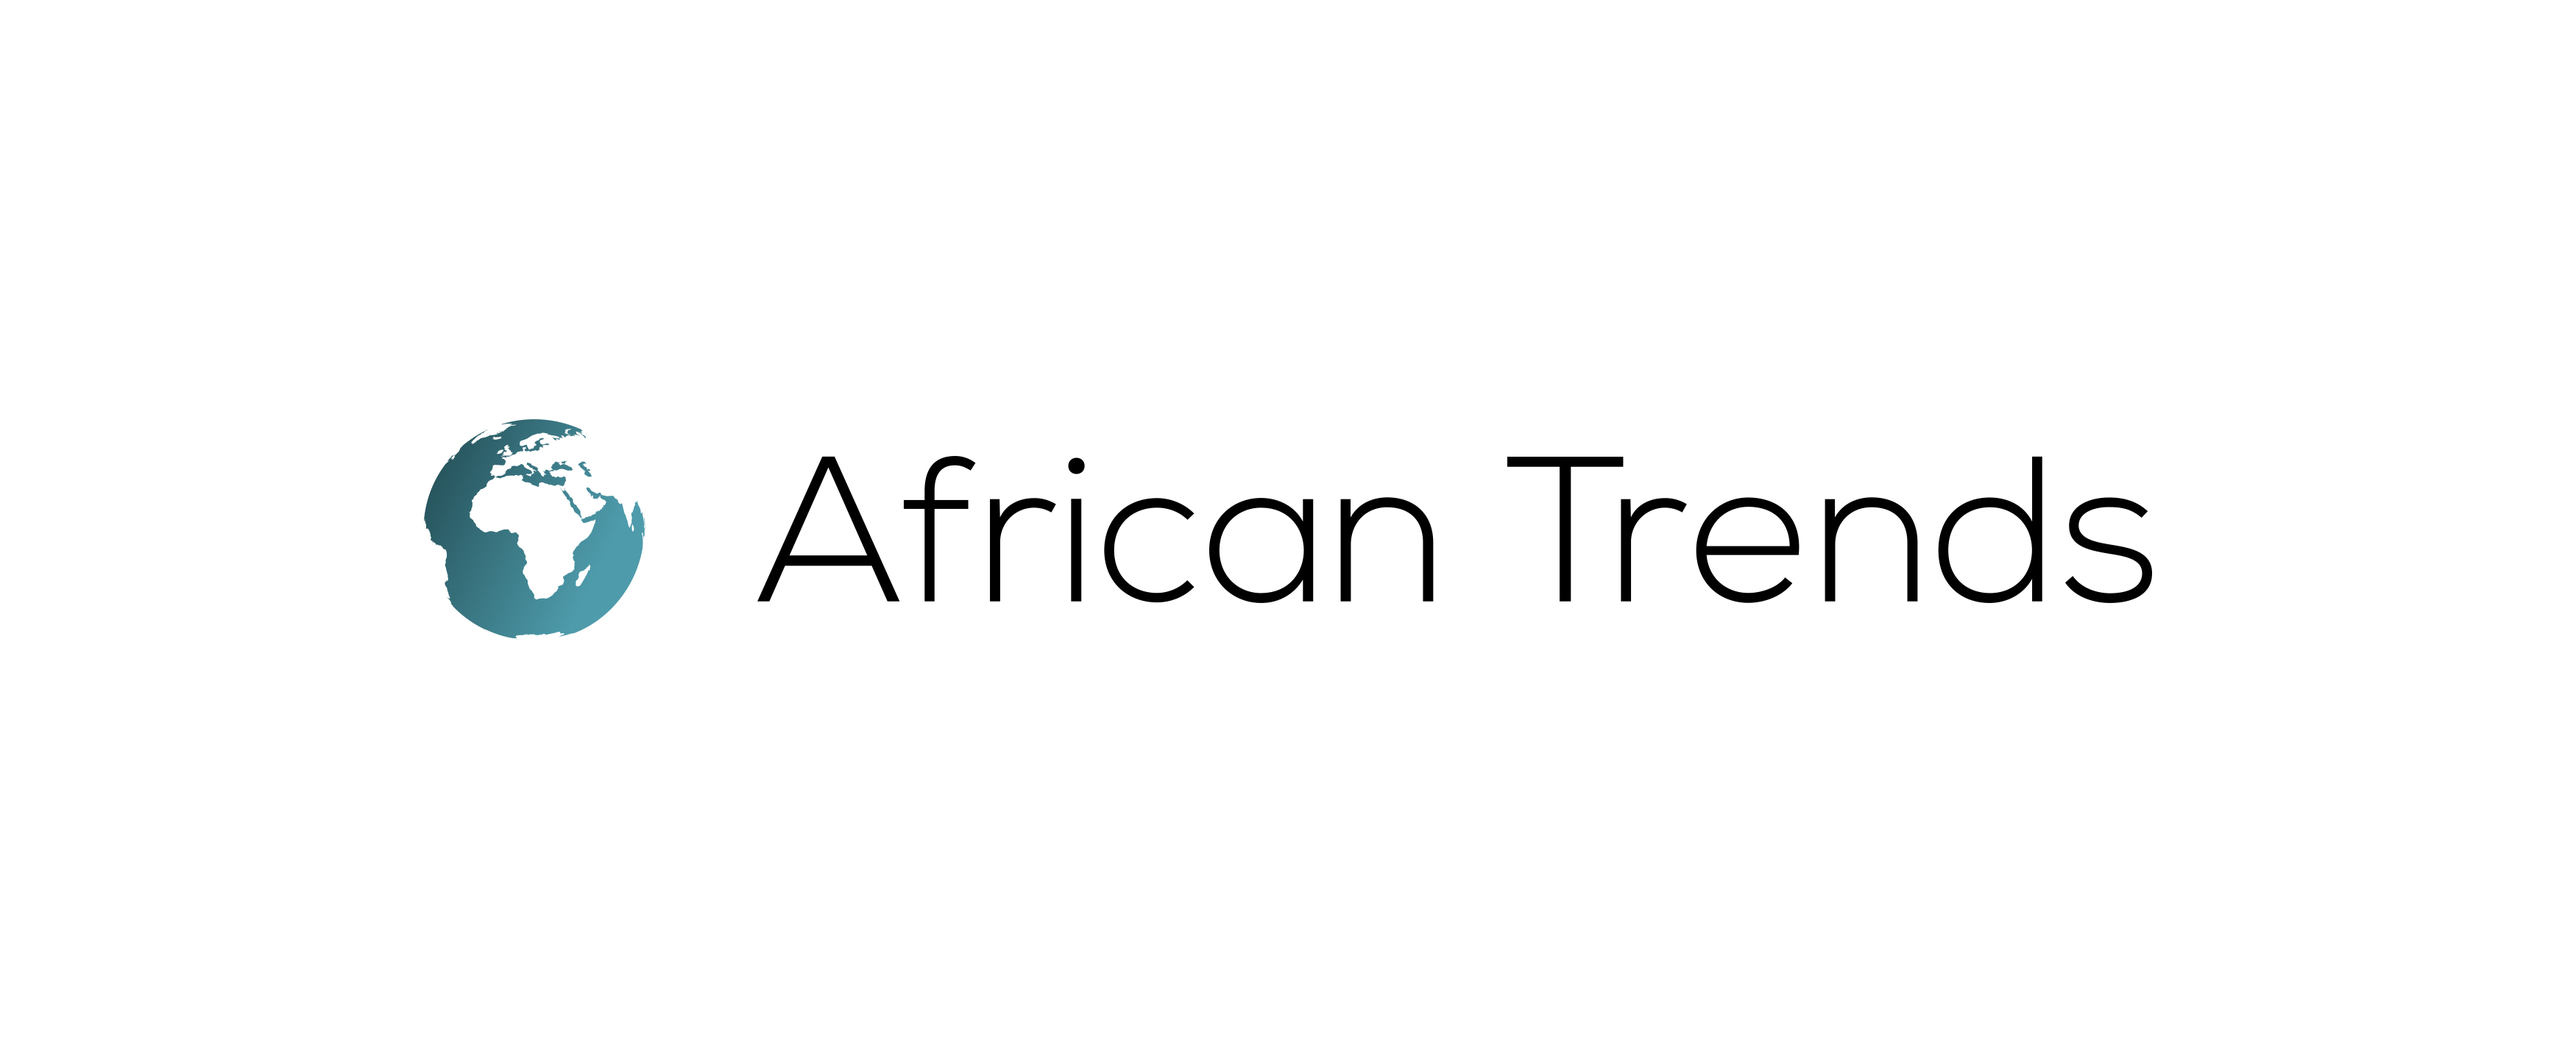
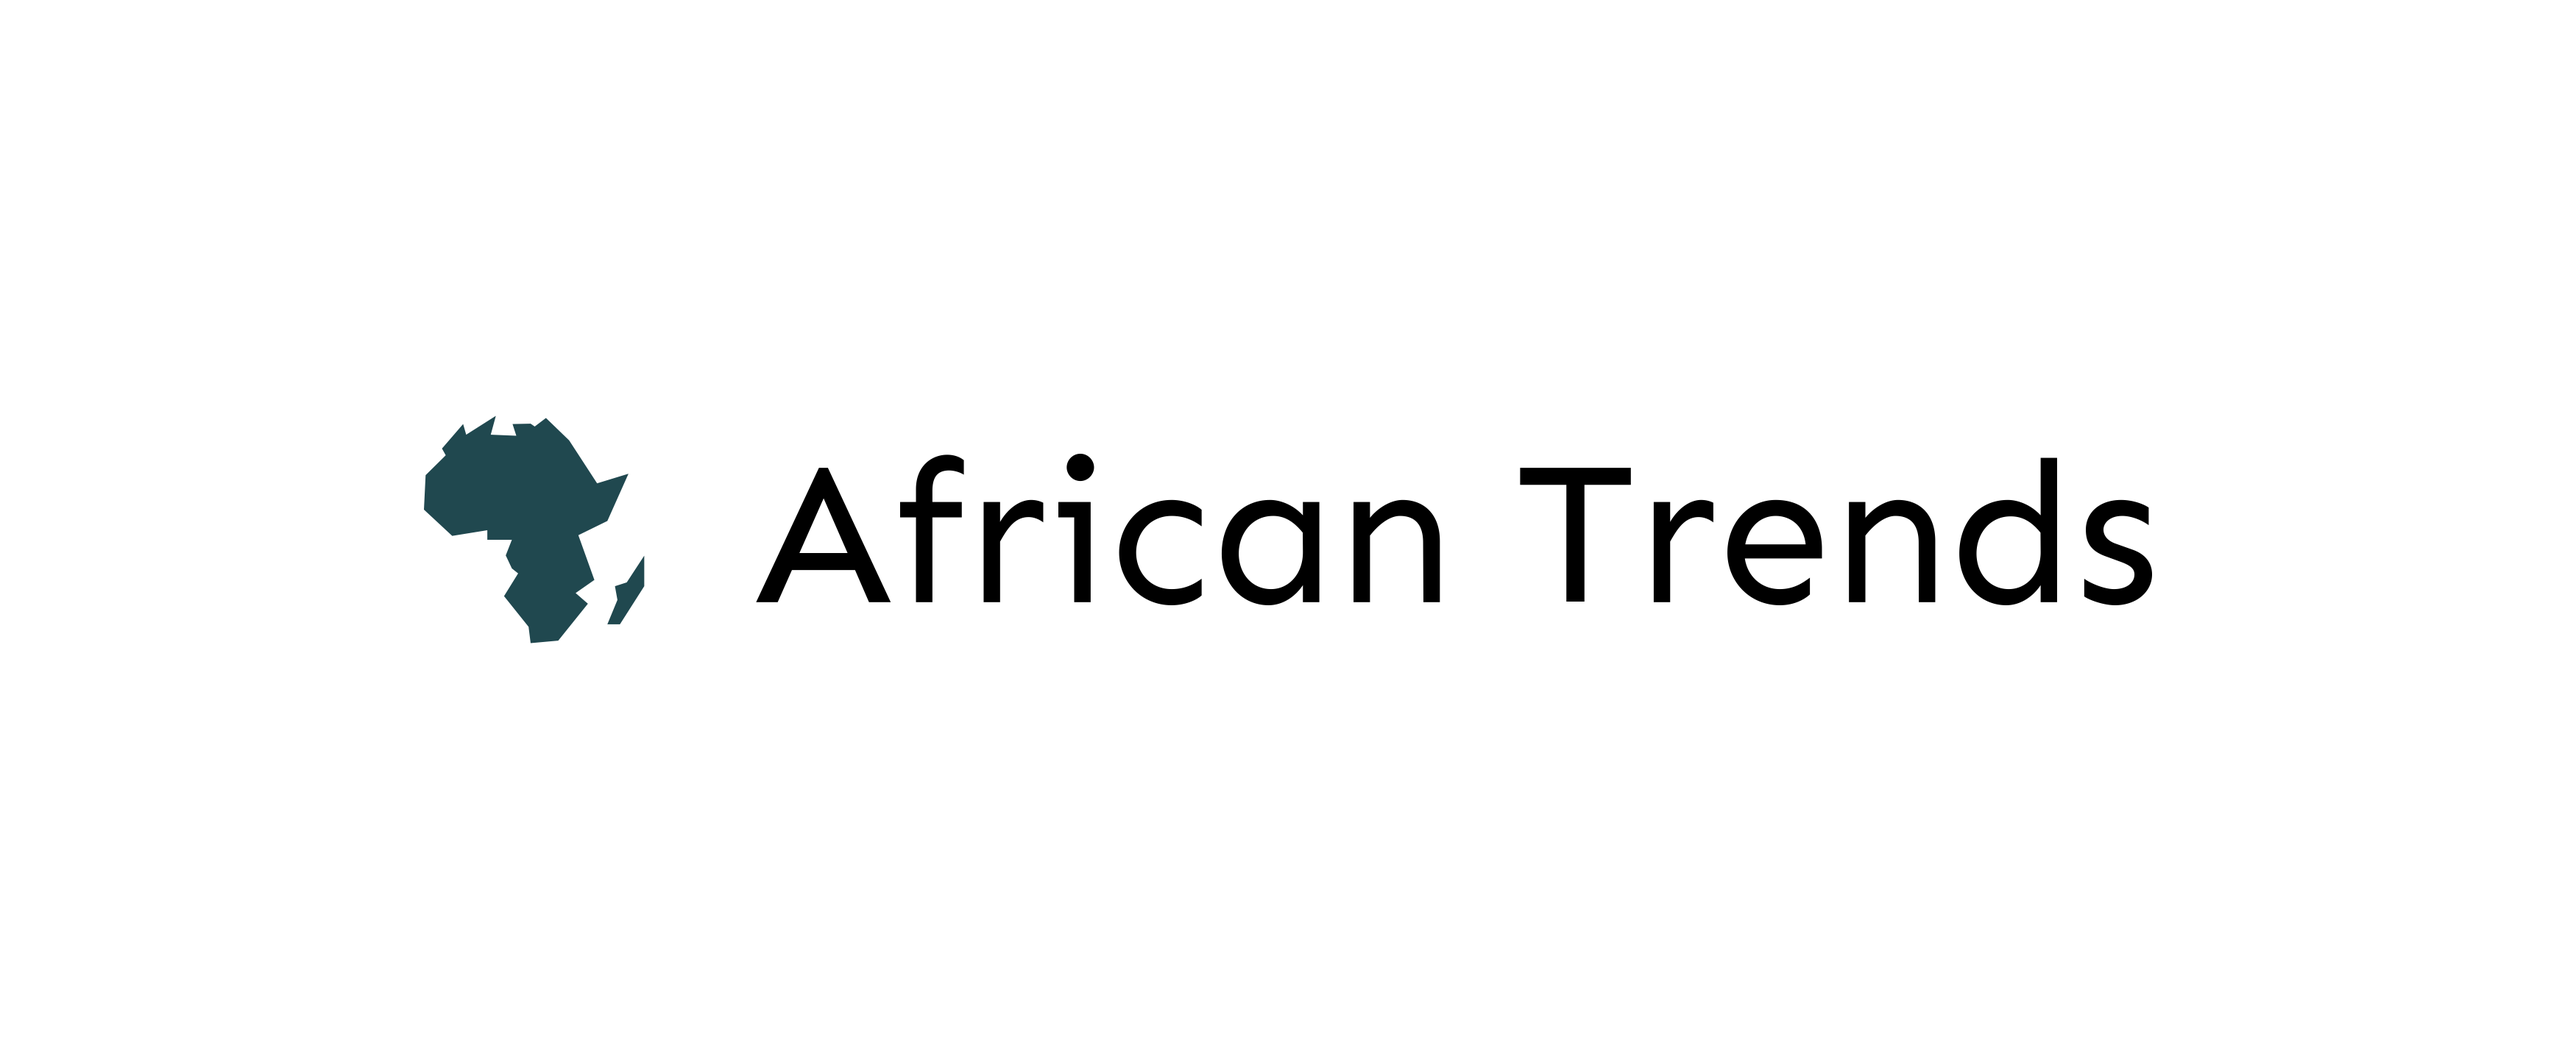
Navbar fix

Changed region(s): [[0.5917, 0.4062, 0.8409, 0.5938], [0.2803, 0.4375, 0.5606, 0.5938], [0.1557, 0.375, 0.2491, 0.625]]

diff --git a/components/Navbar.jsx b/components/Navbar.jsx
@@ -1,6 +1,8 @@
 import { useState } from "react";
 import Image from "next/image";
 
+// import { getCategories } from "../services";
+
 function NavLink({ to, children }) {
   return (
     <a href={to} className={`mx-4`}>
@@ -59,6 +61,7 @@ function MobileNav({ open, setOpen }) {
 
 export default function Navbar() {
   const [open, setOpen] = useState(false);
+
   return (
     <nav className="flex filter drop-shadow-md bg-white px-4 py-4 h-20 items-center">
       <MobileNav open={open} setOpen={setOpen} />
@@ -66,8 +69,8 @@ export default function Navbar() {
         <a className="text-2xl font-semibold" href="/">
           <Image
             alt="african-trends-logo"
-            height="300px"
-            width="600px"
+            height="200px"
+            width="500px"
             className="align-middle drop-shadow-lg rounded-full"
             src="/cover.png"
           />
@@ -98,10 +101,20 @@ export default function Navbar() {
           />
         </div>
 
-        <div className="hidden md:flex">
+        {/* <div className="hidden md:flex">
           <NavLink to="/contact">CONTACT</NavLink>
           <NavLink to="/about">ABOUT</NavLink>
-        </div>
+        </div> */}
+
+        {/* <div className="hidden md:float-left md:contents">
+          {categories.map((category, index) => (
+            <Link key={index} href={`/category/${category.slug}`}>
+              <span className="md:float-right mt-2 align-middle text-white ml-4 font-semibold cursor-pointer">
+                {category.name}
+              </span>
+            </Link>
+          ))}
+        </div> */}
       </div>
     </nav>
   );

diff --git a/sections/FeaturedPosts.jsx b/sections/FeaturedPosts.jsx
@@ -36,7 +36,7 @@ const FeaturedPosts = () => {
   }, []);
 
   const customLeftArrow = (
-    <div className="absolute arrow-btn left-0 text-center py-3 cursor-pointer bg-pink-600 rounded-full">
+    <div className="absolute arrow-btn left-0 text-center py-3 cursor-pointer bg-sky-900 rounded-full">
       <svg
         xmlns="http://www.w3.org/2000/svg"
         className="h-6 w-6 text-white w-full"
@@ -55,7 +55,7 @@ const FeaturedPosts = () => {
   );
 
   const customRightArrow = (
-    <div className="absolute arrow-btn right-0 text-center py-3 cursor-pointer bg-pink-600 rounded-full">
+    <div className="absolute arrow-btn right-0 text-center py-3 cursor-pointer bg-sky-900 rounded-full">
       <svg
         xmlns="http://www.w3.org/2000/svg"
         className="h-6 w-6 text-white w-full"
